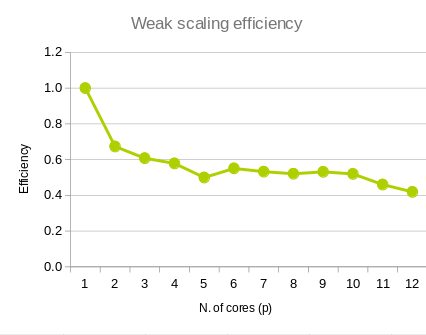
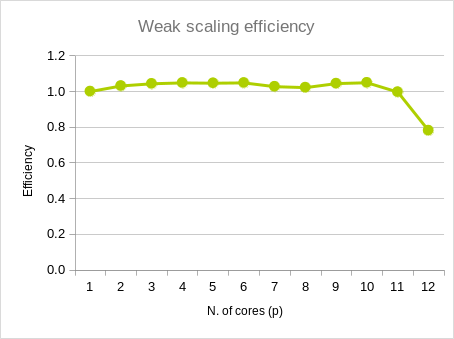
report makeover

diff --git a/Progetto-HPC-2023-2024/report/main.tex b/Progetto-HPC-2023-2024/report/main.tex
@@ -1,8 +1,8 @@
 \documentclass[a4paper,11pt, twoside]{report}
 \usepackage{hyperref}
 \usepackage{graphicx}
-\usepackage[backend=biber, sorting=none, style=ieee]{biblatex}
-\addbibresource{library.bib}
+\usepackage{caption}
+\usepackage[]{newfloat}
 
 \begin{document}
 
@@ -14,132 +14,70 @@
 L' obiettivo di questa relazione è parallelizzare il programma circles.c usando openMP e MPI. 
 Questo programma calcola prende cerchi sovrapposti e li sposta minimizzando le loro sovrapposizioni.
 Ho usato la funzionalità movie per verificare la correttezza di entrambe le implementazioni in maniera visuale. 
-Inoltre ho cercato di vedere se il codice esempio (non parallelizzato) avesse un numero di overlap simili a ogni iterazione. Ho cercato di sfruttare la versione di MPI (che non ha race condition, dato che ogni processo ha le sue variabili) 
-per cercare race condition nella versione OMP (dato che i thread condividono lo stesso address space di default). 
-L' approccio usato per entrambi i programmi paralleli è stato quello di cercare di ottenere codice corretto,
-e poi parallellizzarlo e guadagnare più performance possibile.
+Inoltre ho cercato di vedere se il codice esempio non parallelizzato avesse un numero di overlap simili al codice MPI e OMP a ogni iterazione.
+Ho cercato di sfruttare il fatto che il programma MPI non ha race condition per cercare race condition nella versione OMP.
+Infatti, dato che i thread condividono lo stesso address space, questo potrebbe risultare in race condition. 
+L' approccio usato per entrambi i programmi paralleli è stato quello di cercare di ottenere codice corretto,e poi parallellizzarlo e guadagnare più performance possibile.
+L' unica funzione che presenta loop-carried dependencies nel codice seriale è \textit{move\_circles}.
 \subsection*{Versione OpenMP}
-Parallelizzato usando \textbf{openMP} \cite{openMP}.
-Ho deciso di estrarre i delta x e y nella struttura circle in array separati, così da poterli usare insieme alla primitiva \textbf{OpenMP reduce} \cite{omp_reduce}, rendendo il codice piu chiaro.
+Parallelizzato usando \textbf{openMP}.
+Ho deciso di estrarre i delta x e y nella struttura circle in array separati, così da poterli usare insieme alla primitiva \textit{OpenMP reduce}.
 Nella funzione reduce\_forces, ho parallellizzato solo il loop esterno, che non presenta nessuna loop-carried dependency.
-Dato che il workload è molto sbilanciato e le performance non erano ottimali, ho poi deciso di usare dynamic scheduling.
+Dato che il workload è molto sbilanciato e le performance non erano ottimali, ho poi deciso di usare scheduling dinamico.
 Ho usato il costrutto openMP parallel for, e ho definito le variabili con default(none), in maniera da dover pensare al significato di ogni singola variabile e non lasciare ambiguità nel mio codice.
 Ho definito variabili che non vengono modificate come shared per evitare copie inutili.
 Inoltre ho sempre usato il costrutto reduce di openMP per computare le somme sia degli offset che della variabile che rappresenta il numero di sovrapposizioni.
 Questo mi ha consentito di evitare race condition, e di rendere il mio codice più semplice senza impattare in alcun modo la performance.
-Ho eseguito il problema su una size base di 2000 cerchi, e ho fatto 5 iterazioni separate per ogni combinazione di input, in modo da ridurre la possibilità di avere risultati imprecisi.
-I tempi nelle tabelle sono misurati in secondi.
-\begin{table}[!ht]
-    \centering
-    \begin{tabular}{|l|l|l|l|l|l|l|}
-    \hline
-        threads & t1 & t2 & t3 & t4 & t5 & ~ \\ \hline
-        1 & 0.984081 & 0.984136 & 0.983351 & 0.980449 & 0.984029 & ~ \\ \hline
-        2 & 0.507617 & 0.501525 & 0.495320 & 0.499768 & 0.503177 & ~ \\ \hline
-        3 & 0.336122 & 0.334336 & 0.337910 & 0.335685 & 0.334806 & ~ \\ \hline
-        4 & 0.254741 & 0.257792 & 0.254491 & 0.257680 & 0.253694 & ~ \\ \hline
-        5 & 0.204755 & 0.204981 & 0.204034 & 0.201425 & 0.201518 & ~ \\ \hline
-        6 & 0.173564 & 0.173434 & 0.173012 & 0.173855 & 0.174283 & ~ \\ \hline
-        7 & 0.149820 & 0.148868 & 0.151582 & 0.150275 & 0.148041 & ~ \\ \hline
-        8 & 0.134840 & 0.147915 & 0.143373 & 0.129060 & 0.133693 & ~ \\ \hline
-        9 & 0.122246 & 0.122463 & 0.126822 & 0.132121 & 0.132055 & ~ \\ \hline
-        10 & 0.118163 & 0.115866 & 0.113696 & 0.116546 & 0.119328 & ~ \\ \hline
-        11 & 0.103750 & 0.102452 & 0.111288 & 0.112172 & 0.104592 & ~ \\ \hline
-        12 & 0.107195 & 0.108961 & 0.101341 & 0.156694 & 0.206630 & ~ \\ \hline
-    \end{tabular}
-\end{table}
-\newline
-\includegraphics[scale=0.5]{images/omp_speedup.png}
-\includegraphics[scale=0.5]{images/omp_strong.png}
+\begin{figure}
+    \includegraphics[scale=0.5]{images/omp_speedup.png}
+    \caption[]{Lo speedup misurato del programma \textit{omp\_circles} è quasi lineare}
+\end{figure}
+\begin{figure}
+    \includegraphics[scale=0.5]{images/omp_strong.png}
+    \caption[]{La strong scaling efficiency rimane vicina a 1 con numero di thread minore o uguale a 10 per poi diminuire leggermente}
+\end{figure}
 La ragione per cui lo speedup diminuisce nella dodicesima iterazione è che il thread probabilmente viene usato dal sistema operativo.
 Dato che il carico è bilanciato dinamicamente, ogni thread prende una frazione del lavoro uguale agli altri, 
 e le performance in weak scaling sono molto buone.
-\includegraphics[scale=0.5]{images/omp_weak.png}
-\begin{table}[!ht]
-    \centering
-    \begin{tabular}{|l|l|l|l|l|l|l|}
-    \hline
-        threads & t1 & t2 & t3 & t4 & t5 & ~ \\ \hline
-        1 & 0.497624 & 0.502653 & 0.497082 & 0.496878 & 0.498347 & ~ \\ \hline
-        2 & 0.501651 & 0.495778 & 0.502095 & 0.499785 & 0.500418 & ~ \\ \hline
-        3 & 0.499069 & 0.496452 & 0.496993 & 0.499587 & 0.496836 & ~ \\ \hline
-        4 & 0.499963 & 0.495844 & 0.497311 & 0.498636 & 0.498090 & ~ \\ \hline
-        5 & 0.503251 & 0.500397 & 0.501445 & 0.499359 & 0.500204 & ~ \\ \hline
-        6 & 0.502926 & 0.499865 & 0.503116 & 0.502779 & 0.502013 & ~ \\ \hline
-        7 & 0.502450 & 0.502578 & 0.501149 & 0.498879 & 0.501934 & ~ \\ \hline
-        8 & 0.503764 & 0.503973 & 0.504111 & 0.500561 & 0.502809 & ~ \\ \hline
-        9 & 0.510822 & 0.513545 & 0.502197 & 0.505757 & 0.506698 & ~ \\ \hline
-        10 & 0.516669 & 0.507416 & 0.506557 & 0.507217 & 0.507029 & ~ \\ \hline
-        11 & 0.521998 & 0.511696 & 0.526383 & 0.510572 & 0.506039 & ~ \\ \hline
-        12 & 0.511261 & 0.608653 & 0.507164 & 0.516128 & 0.508778 & ~ \\ \hline
-    \end{tabular}
-\end{table}
+\begin{figure}
+    \includegraphics[scale=0.5]{images/omp_weak.png}
+    \caption[]{Le performance in weak scaling sono molto buone}
+\end{figure}
 \section*{Versione MPI}
-Usando \textbf{MPI}\cite{mpi}, dato che ogni processo ha bisogno di ricevere un' array aggiornato con tutte le informazioni rilevanti ai cerchi, 
+Usando \textbf{MPI}, dato che ogni processo ha bisogno di ricevere un' array aggiornato con tutte le informazioni rilevanti ai cerchi, 
 ho dovuto definire un nuovo data type circle, che ho potuto usare per inviare direttamente le informazioni. 
-Questo mi consente di ridurre il numero di  \textbf{MPI\_Bcast} \cite{mpi_bcast} necessarie ad ogni iterazione. Dato che a ogni processo servono le
-informazioni presenti in tutto l' array, e non solo una porzione, ho usato \textbf{MPI\_Bcast}\cite{mpi_bcast} per facilitare l' invio e non duplicare lavoro,
-come sarebbe successo se avessi scelto di usare \textbf{MPI\_send} \cite{mpi_send} \textbf{MPI\_recv} \cite{mpi_recv}. 
-Dopo aver calcolato i nuovi displacement sull'asse x e y, ho usato \textbf{MPI\_reduce} \cite{mpi_reduce} per agevolare le operazioni di somma.
+Questo mi consente di ridurre il numero di \textbf{MPI\_Bcast} necessarie ad ogni iterazione.
+Dato che a ogni processo servono le informazioni presenti in tutto l' array, e non solo una porzione, ho usato \textbf{MPI\_Bcast} per facilitare l' invio e non duplicare lavoro,
+che sarebbe successo se avessi scelto di usare \textbf{MPI\_send} o  \textbf{MPI\_recv}.
+Dopo aver calcolato i nuovi displacement sull'asse x e y, ho usato \textbf{MPI\_reduce}. 
 In questo caso ho preferito codice piu semplice al definire una operazione di reduce custom,
 che permette efficienza migliore rispetto all' usare direttamente primitive di livello più basso.
-Ho eseguito il problema su una size base di 2000 cerchi, e ho fatto 5 iterazioni separate per ogni combinazione di input, in modo da ridurre la possibilità di avere risultati imprecisi.
-I tempi sono misurati in secondi.
-\newline
-\includegraphics[scale=0.5]{images/mpi_speedup.png}
-\begin{table}[!ht]
-    \centering
-    \begin{tabular}{|l|l|l|l|l|l|l|}
-    \hline
-        processi & t1 & t2 & t3 & t4 & t5 & ~ \\ \hline
-        1 & 0.969648 & 0.971259 & 0.970024 & 0.971939 & 0.971256 & ~ \\ \hline
-        2 & 0.729474 & 0.728466 & 0.731550 & 0.731297 & 0.729286 & ~ \\ \hline
-        3 & 0.541049 & 0.542373 & 0.540680 & 0.544362 & 0.541856 & ~ \\ \hline
-        4 & 0.427281 & 0.430620 & 0.446108 & 0.428390 & 0.429443 & ~ \\ \hline
-        5 & 0.352652 & 0.356286 & 0.354762 & 0.352650 & 0.356276 & ~ \\ \hline
-        6 & 0.301223 & 0.301934 & 0.302674 & 0.300126 & 0.304681 & ~ \\ \hline
-        7 & 0.263835 & 0.262773 & 0.263878 & 0.264861 & 0.263143 & ~ \\ \hline
-        8 & 0.256530 & 0.306194 & 0.235756 & 0.233931 & 0.235122 & ~ \\ \hline
-        9 & 0.211325 & 0.210187 & 0.215610 & 0.210518 & 0.212680 & ~ \\ \hline
-        10 & 0.245294 & 0.196111 & 0.192201 & 0.270810 & 0.206482 & ~ \\ \hline
-        11 & 0.178180 & 0.178871 & 0.251987 & 0.251947 & 0.175303 & ~ \\ \hline
-        12 & 0.181836 & 0.164800 & 0.245433 & 0.200537 & 0.163095 & ~ \\ \hline
-    \end{tabular}
-\newline
-\end{table}
-\includegraphics[scale=0.5]{images/mpi_strong.png}
-\includegraphics[scale=0.5]{images/mpi_weak.png}
-\begin{table}[!ht]
-    \centering
-    \begin{tabular}{|l|l|l|l|l|l|l|}
-    \hline
-        processi & t1 & t2 & t3 & t4 & t5 & ~ \\ \hline
-        1 & 0.003678 & 0.003035 & 0.002918 & 0.003182 & 0.003141 & ~ \\ \hline
-        2 & 0.006129 & 0.006134 & 0.006129 & 0.006159 & 0.006041 & ~ \\ \hline
-        3 & 0.009250 & 0.010712 & 0.009162 & 0.009259 & 0.008583 & ~ \\ \hline
-        4 & 0.012803 & 0.011717 & 0.011680 & 0.012336 & 0.013111 & ~ \\ \hline
-        5 & 0.014638 & 0.014620 & 0.015177 & 0.015184 & 0.013320 & ~ \\ \hline
-        6 & 0.017274 & 0.015946 & 0.017011 & 0.016703 & 0.017459 & ~ \\ \hline
-        7 & 0.019960 & 0.020302 & 0.020186 & 0.018834 & 0.019676 & ~ \\ \hline
-        8 & 0.021634 & 0.029037 & 0.021791 & 0.022178 & 0.022520 & ~ \\ \hline
-        9 & 0.024613 & 0.023907 & 0.025140 & 0.024692 & 0.024487 & ~ \\ \hline
-        10 & 0.027618 & 0.027551 & 0.027602 & 0.027214 & 0.026683 & ~ \\ \hline
-        11 & 0.028849 & 0.029816 & 0.029343 & 0.029504 & 0.029187 & ~ \\ \hline
-        12 & 0.032244 & 0.031859 & 0.032763 & 0.032379 & 0.033032 & ~ \\ \hline
-    \end{tabular}
-\end{table}
+Per bilanciare il carico, ho modularizzato il codice e fatto in modo che lo stesso thread che calcola i displacement per il cerchio $i$ lo calcoli anche per il cerchio $n-i$.
+Questo risulta nel fatto che a ogni iterazione $i$ del ciclo da $0$ a $\frac{n}{2}$, il lavoro fatto rimane costante, dato che il lavoro fatto a ogni iterazione è $i + (n-i) = n$.
+A questo punto, se un processo itera sullo stesso numero di coppie di cerchi, allora compie lo stesso lavoro di un altro, qualunque sia il suo indice $i$.
+Inoltre, ho deciso di usare la funzione reset\_displacement direttamente al posto di mandare il buffer con displacement resettati a 0.
+Questo consente di limitare le comunicazioni inter-process necessarie.
+\begin{figure}
+    \includegraphics[scale=0.5]{images/mpi_speedup.png}
+    \caption[]{Lo speedup rimane molto vicino a lineare con un numero di processi minore o uguale a 10}
+\end{figure}
+\begin{figure}
+    \includegraphics[scale=0.5]{images/mpi_strong.png}
+    \caption[short]{title}
+\end{figure}
+\begin{figure}
+    \includegraphics[scale=0.5]{images/mpi_weak.png}
+    \caption[short]{title} 
+\end{figure}
 \newline
 La ragione per cui lo speedup diminuisce nella dodicesima iterazione è che il thread probabilmente viene usato dal sistema operativo.
 \section*{Conclusioni}
 Ho ottenuto uno speedup significativo sia nella versione MPI che nella versione OpenMP.
 La differenza principale tra il programma MPI e il programma OpenMP è la mancanza di dynamic scheduling nella versione MPI.
-Questo si traduce in performance peggiori nella versione MPI, dato che il workload è sbilanciato.
-Per ottimizzare meglio il programma, si potrebbe cercare di rimuovere la loop-carried dependency, o cercare di implementare il dynamic scheduling di OpenMP in MPI.
+Questo è stato risolto bilanciando il carico in modo manuale nella versione MPI.
 Un'altra possibile ottimizzazione è aumentare la cache locality iterando sui displacement x e y separatamente.
 Questo consente al programma di dover tenere nella cache solo il displacement corrente, effettivamente raddoppiando il numero di displacement nella cache.
 Ho inoltre notato che il numero di intersezioni non sono esattamente uguali tra versione parallellizzata e seriale, ma differiscono di circa lo 0.5\% alla ventesima iterazione.
 Dopo una sessione di debugging, credo che questo sia dovuto al fatto che i float che rappresentano i displacement vengono sommati in un ordine diverso, dando origine così a risultati leggermente inconsistenti.
-\printbibliography
-\appendix
 
 \end{document}
